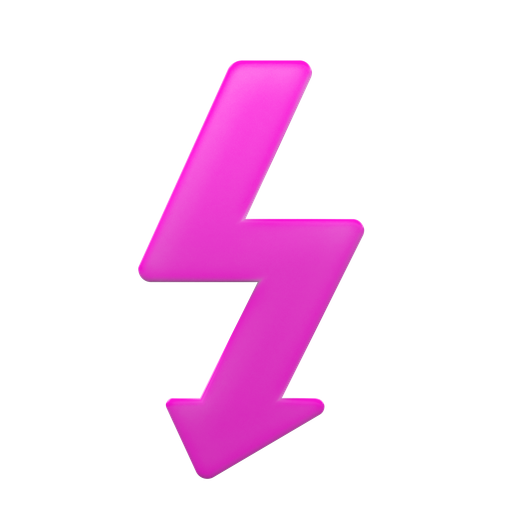
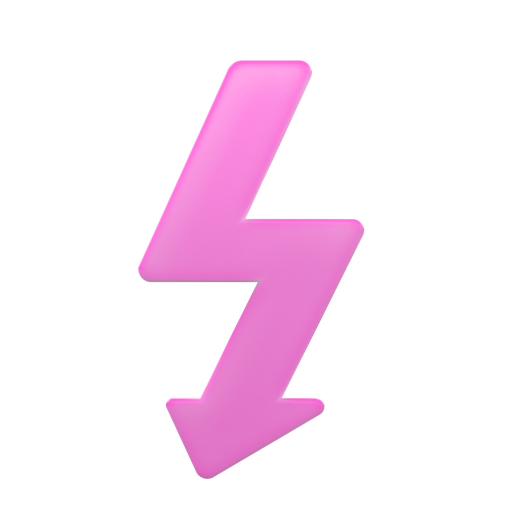
brand-color

Changed region(s): [[0.25, 0.0938, 0.7188, 0.9375]]

diff --git a/evseye_core/lib/src/theme/app_colors.dart b/evseye_core/lib/src/theme/app_colors.dart
@@ -1,13 +1,13 @@
 import 'package:flutter/material.dart';
 
 abstract final class AppColors {
-  static const Color primary = Color(0xFFC21784);
-  static const Color primaryBright = Color(0xFFF00AA3);
-  static const Color primaryDeep = Color(0xFF5D0B3D);
+  static const Color primary = Color(0xFFF475D0);
+  static const Color primaryBright = Color(0xFFF475D0);
+  static const Color primaryDeep = Color(0xFFF475D0);
 
-  static const Color primaryWash = Color(0xFFFEE6F5);
+  static const Color primaryWash = Color(0xFFFDECF8);
 
-  static const Color primaryInk = Color(0xFF3F0528);
+  static const Color primaryInk = Color(0xFF3D0A2C);
 
   static const Color cyan = Color(0xFF00A3C4);
   static const Color cyanWash = Color(0xFFE1F5FA);
@@ -27,21 +27,21 @@ abstract final class AppColors {
   static const Color teal = Color(0xFF00B8D9);
   static const Color tealWash = Color(0xFFE1F7FB);
 
-  static const Color ink = Color(0xFF6F0E4C);
-  static const Color inkSoft = Color(0xFF8A135E);
-  static const Color inkDeep = Color(0xFF46072E);
+  static const Color ink = Color(0xFFF475D0);
+  static const Color inkSoft = Color(0xFFF475D0);
+  static const Color inkDeep = Color(0xFFF475D0);
 
-  static const Color onInk = Color(0xFFFFFFFF);
-  static const Color onInkSecondary = Color(0xFFFAC0E6);
-  static const Color onInkMuted = Color(0xFFF59FD9);
+  static const Color onInk = Color(0xFF3D0A2C);
+  static const Color onInkSecondary = Color(0xFF6B2453);
+  static const Color onInkMuted = Color(0xFF854070);
 
-  static const Color onInkAccent = Color(0xFFFF8DD9);
+  static const Color onInkAccent = Color(0xFF3D0A2C);
 
-  static const Color onInkMint = Color(0xFF5FE9C0);
-  static const Color onInkAmber = Color(0xFFFFC978);
-  static const Color onInkCoral = Color(0xFFFF9FA6);
+  static const Color onInkMint = Color(0xFF0A5C3E);
+  static const Color onInkAmber = Color(0xFF6B4405);
+  static const Color onInkCoral = Color(0xFF7A1720);
 
-  static const Color inkStroke = Color(0x1FFFFFFF);
+  static const Color inkStroke = Color(0x29000000);
 
   static const Color canvas = Color(0xFFF4F6FA);
 
@@ -58,7 +58,7 @@ abstract final class AppColors {
   static const Color textPrimary = Color(0xFF11202F);
   static const Color textSecondary = Color(0xFF5B6B7C);
   static const Color textMuted = Color(0xFF8B9AAA);
-  static const Color textOnPrimary = Color(0xFFFFFFFF);
+  static const Color textOnPrimary = Color(0xFF3D0A2C);
 
   static const Color success = Color(0xFF12A05F);
   static const Color successWash = Color(0xFFE6F6EE);
@@ -76,7 +76,7 @@ abstract final class AppColors {
         mint || success => onInkMint,
         warning || amber => onInkAmber,
         danger || coral => onInkCoral,
-        cyan || teal || violet || primary || primaryBright => onInkAccent,
+        cyan || teal || violet || primary => onInkAccent,
         _ => onInk,
       };
 

diff --git a/rider_app/test/screenshot_test.dart b/rider_app/test/screenshot_test.dart
@@ -28,6 +28,8 @@ import 'package:rider_app/features/onboarding/presentation/pages/onboarding_prev
 import 'package:rider_app/features/onboarding_intro/presentation/pages/intro_page.dart';
 import 'package:rider_app/features/profile/presentation/pages/profile_page.dart';
 import 'package:rider_app/features/rentals/presentation/pages/rentals_page.dart';
+import 'package:rider_app/features/scooter/domain/entities/vehicle.dart';
+import 'package:rider_app/features/scooter/presentation/pages/scooter_details_page.dart';
 import 'package:rider_app/features/scooter/presentation/pages/scooter_page.dart';
 import 'package:rider_app/features/home/presentation/widgets/rider_drawer.dart';
 import 'package:rider_app/features/home/presentation/widgets/rider_shell.dart';
@@ -96,6 +98,41 @@ void main() {
     '05e_deployment_pairing': PairingPage.new,
     '07_home': HomePage.new,
     '08_scooter': ScooterPage.new,
+    '08b_scooter_details': () => ScooterDetailsPage(
+          vehicle: Vehicle(
+            vehicleNumber: 'DL 1S CD 9012',
+            model: 'Ather 450X Gen 3',
+            vin: 'CHS100005',
+            colour: 'Space Grey',
+            allocatedOn: DateTime(2026, 9, 22),
+            batteryPercent: 68,
+            charging: false,
+            rangeKm: 61,
+            odometerKm: 2440,
+            healthPercent: 94,
+            lastServiceKm: 0,
+            nextServiceKm: 5000,
+            tyrePressureFront: 30,
+            tyrePressureRear: 32,
+            iot: const VehicleIot(
+              deviceId: 'EVS-IOT-0005',
+              online: true,
+              signal: 3,
+              lastPing: 'a moment ago',
+              firmware: '—',
+            ),
+            documents: const [],
+            accessories: const [],
+            recentTrips: const [],
+            motorNumber: 'MOT-9012',
+            controllerNumber: 'CTRL-0004',
+            batteryType: 'FIXED_DOUBLE',
+            batterySerial: 'BAT-0004',
+            homeHubName: 'Okhla Phase II Hub',
+            currentHubName: 'Okhla Phase II Hub',
+            teamLeadName: 'Rohit Sharma',
+          ),
+        ),
     '09_wallet': WalletPage.new,
     '10_support': SupportPage.new,
     '11_raise_ticket': () => const RaiseTicketPage(categoryKey: 'battery'),

diff --git a/evseye_core/lib/src/theme/app_theme.dart b/evseye_core/lib/src/theme/app_theme.dart
@@ -159,7 +159,7 @@ abstract final class AppTheme {
         fillColor: WidgetStateProperty.resolveWith(
           (s) => s.contains(WidgetState.selected) ? AppColors.primary : Colors.transparent,
         ),
-        checkColor: const WidgetStatePropertyAll(Colors.white),
+        checkColor: const WidgetStatePropertyAll(AppColors.textOnPrimary),
         side: const BorderSide(color: AppColors.strokeStrong, width: 1.5),
         shape: const RoundedRectangleBorder(borderRadius: BorderRadius.all(Radius.circular(6))),
       ),
@@ -172,7 +172,7 @@ abstract final class AppTheme {
         activeTrackColor: AppColors.primary,
         inactiveTrackColor: AppColors.surfaceSunken,
         thumbColor: Colors.white,
-        overlayColor: Color(0x1FC21784),
+        overlayColor: Color(0x1FF475D0),
       ),
       progressIndicatorTheme: const ProgressIndicatorThemeData(
         color: AppColors.primary,
@@ -199,7 +199,7 @@ abstract final class AppTheme {
       ),
       textSelectionTheme: const TextSelectionThemeData(
         cursorColor: AppColors.primary,
-        selectionColor: Color(0x33C21784),
+        selectionColor: Color(0x33F475D0),
         selectionHandleColor: AppColors.primary,
       ),
     );

diff --git a/evseye_core/lib/src/widgets/buttons.dart b/evseye_core/lib/src/widgets/buttons.dart
@@ -75,7 +75,7 @@ class PrimaryButton extends StatelessWidget {
                     key: ValueKey('loading'),
                     width: 20,
                     height: 20,
-                    child: CircularProgressIndicator(strokeWidth: 2.2, color: Colors.white),
+                    child: CircularProgressIndicator(strokeWidth: 2.2, color: AppColors.textOnPrimary),
                   )
                 : Row(
                     key: const ValueKey('label'),
@@ -107,7 +107,7 @@ class PrimaryButton extends StatelessWidget {
     );
   }
 
-  static Color _ink(bool disabled) => disabled ? AppColors.textMuted : Colors.white;
+  static Color _ink(bool disabled) => disabled ? AppColors.textMuted : AppColors.textOnPrimary;
 }
 
 class SecondaryButton extends StatelessWidget {

diff --git a/evseye_core/lib/src/widgets/illustrations.dart b/evseye_core/lib/src/widgets/illustrations.dart
@@ -110,7 +110,7 @@ class IconTile extends StatelessWidget {
               ]
             : null,
       ),
-      child: Icon(icon, size: size * 0.48, color: solid ? Colors.white : tone),
+      child: Icon(icon, size: size * 0.48, color: solid ? AppColors.onInkTone(tone) : tone),
     );
   }
 }

diff --git a/evseye_core/tool/retint_art.py b/evseye_core/tool/retint_art.py
@@ -1,0 +1,57 @@
+"""Re-tint the shared 3D artwork from the rendered violet to the brand pink.
+
+Only the brand band moves. Hue is remapped onto a narrow band around the
+logo's 317 degrees, saturation is scaled toward the logo's own, and value is
+lifted along a curve that lightens without clipping the highlights — so the
+shading that makes these read as rendered objects survives. Skin, hair and
+every grey sit outside the band and are untouched.
+
+  python3 tool/retint_art.py tool/art-violet assets/art
+"""
+from PIL import Image
+import numpy as np
+import sys, os, glob
+
+SRC_LO, SRC_HI = 230.0, 310.0
+DST_LO, DST_HI = 308.0, 326.0
+SAT_SCALE = 0.62
+VAL_LIFT = 0.30
+
+
+def retint(path, out):
+    im = Image.open(path).convert('RGBA')
+    a = np.asarray(im).astype(np.float32) / 255.0
+    rgb, alpha = a[..., :3], a[..., 3]
+    r, g, b = rgb[..., 0], rgb[..., 1], rgb[..., 2]
+    mx, mn = rgb.max(2), rgb.min(2)
+    d = mx - mn
+    dz = np.where(d == 0, 1.0, d)
+    h = np.where(mx == r, ((g - b) / dz) % 6,
+        np.where(mx == g, ((b - r) / dz) + 2, ((r - g) / dz) + 4)) * 60.0
+    h = np.where(d == 0, 0.0, h) % 360.0
+    s = np.where(mx == 0, 0.0, d / np.where(mx == 0, 1.0, mx))
+    v = mx
+
+    sel = (h >= SRC_LO) & (h <= SRC_HI) & (d > 0)
+    h2 = np.where(sel, DST_LO + (h - SRC_LO) * (DST_HI - DST_LO) / (SRC_HI - SRC_LO), h)
+    s2 = np.where(sel, s * SAT_SCALE, s)
+    v2 = np.where(sel, v + (1.0 - v) * VAL_LIFT, v)
+
+    i = np.floor(h2 / 60.0) % 6
+    f = h2 / 60.0 - np.floor(h2 / 60.0)
+    p, q, t = v2 * (1 - s2), v2 * (1 - f * s2), v2 * (1 - (1 - f) * s2)
+    out_r = np.select([i==0,i==1,i==2,i==3,i==4,i==5], [v2,q,p,p,t,v2])
+    out_g = np.select([i==0,i==1,i==2,i==3,i==4,i==5], [t,v2,v2,q,p,p])
+    out_b = np.select([i==0,i==1,i==2,i==3,i==4,i==5], [p,p,t,v2,v2,q])
+    res = np.dstack([out_r, out_g, out_b, alpha])
+    res = np.clip(res * 255.0 + 0.5, 0, 255).astype(np.uint8)
+    Image.fromarray(res).save(out, optimize=True)
+    return sel.sum(), alpha.size
+
+
+if __name__ == '__main__':
+    src_dir, out_dir = sys.argv[1], sys.argv[2]
+    os.makedirs(out_dir, exist_ok=True)
+    for path in sorted(glob.glob(f'{src_dir}/*.png')):
+        n, tot = retint(path, f'{out_dir}/{os.path.basename(path)}')
+        print(f'  {os.path.basename(path):24} {100*n/tot:5.1f}% re-tinted')
